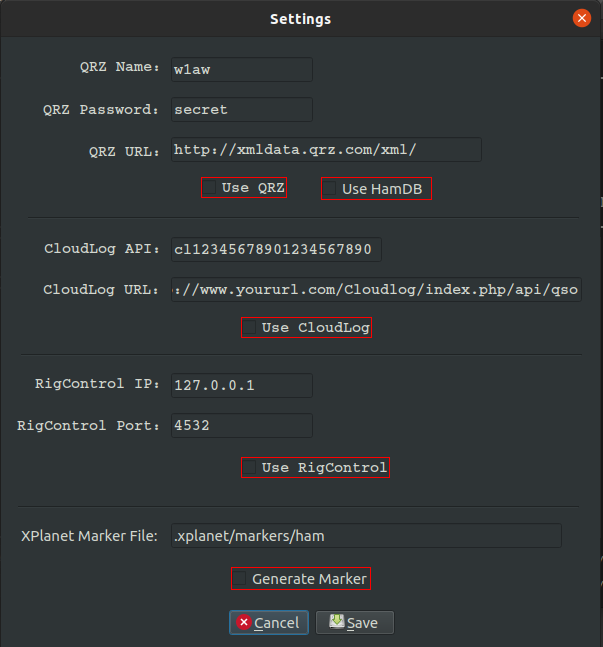
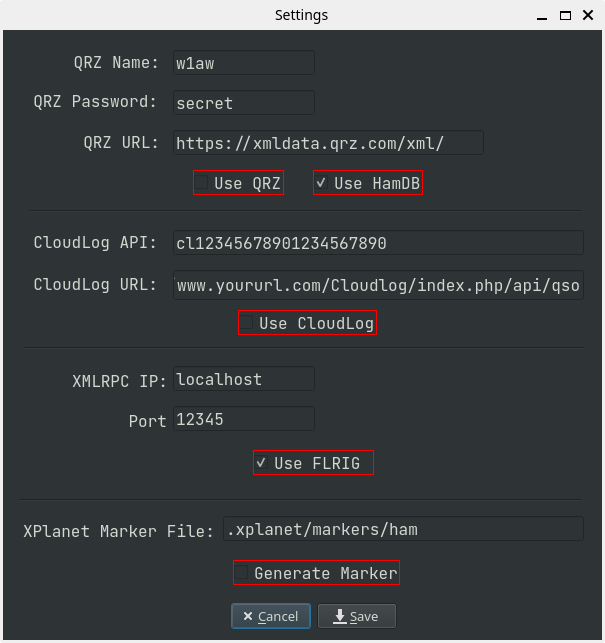
Docs: Updated readme.md and settings pic.

diff --git a/README.md b/README.md
@@ -12,12 +12,18 @@ The logger will generate a cabrillo for submission, An ADIF file so you can merg
 
 ![Alt text](https://github.com/mbridak/WinterFieldDayLogger/raw/main/pics/loggerscreenshot.png)
 
-
-
 ## Caveats
 
 This is a simple logger ment for single op, it's not usable for clubs.
 WFD only has a generic digital mode designator 'DI', which gets exported to the cabrillo file. But ADIF and CloudLog needed something else, So I Chose RTTY. Feel free to change it to what ever you will use. Just search for the two places in the code 'RTTY' is used and Bob's your dads brother.
+
+## Changes since 21.12.13 Little Pink Tutu
+
+I ditched using the rigctld daemon supplied by hamlib tools. Instead I'll be using the [flrig's](http://w1hkj.com/files/flrig/) XmlRPC interface. It's way simpler. It's available on all platforms.
+
+For Debian based Linux or Raspberry OS you can:
+
+`sudo apt install flrig`
 
 ## Running the binary
 
@@ -67,11 +73,9 @@ Okay you've made a contact. Enter the call in the call field. As you type it in,
 
 # Features
 
-## Radio Polling via rigctld
+## Radio Polling via flrig
 
-If you run rigctld a computer connected to the radio, it can be polled for band/mode updates automatically. Click the gear icon at the bottom of the screen to set the IP and port for rigctld. There is a radio icon at the bottom of the logging window to indicate polling status.
-~~Right now I'm adding polling of the radio for transmit power level. Seems it returns a value from 1.0 to 0.0. That was on an IC-7300. I'll bust out my 817 and see if the range is the same. If so I'll have to add a dialog entry for the radios max power out to scale the return value to.~~
-Decided not follow the rf power polling. :bomb: The FT-817 did not support this feature. I left the code in there, just commented out.
+If you run flrig on a computer connected to the radio, it can be polled for band/mode updates automatically. Click the gear icon at the bottom of the screen to set the IP and port for flrig. There is a radio icon at the bottom of the logging window to indicate polling status.
 
 ![Alt text](https://github.com/mbridak/WinterFieldDayLogger/raw/main/pics/loggerSettingsDialog.png)
 
